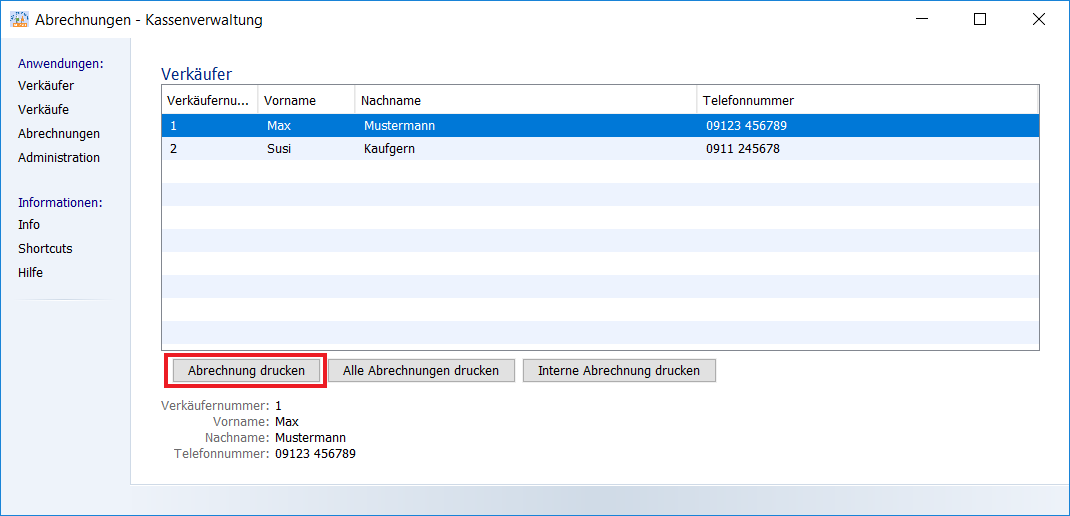
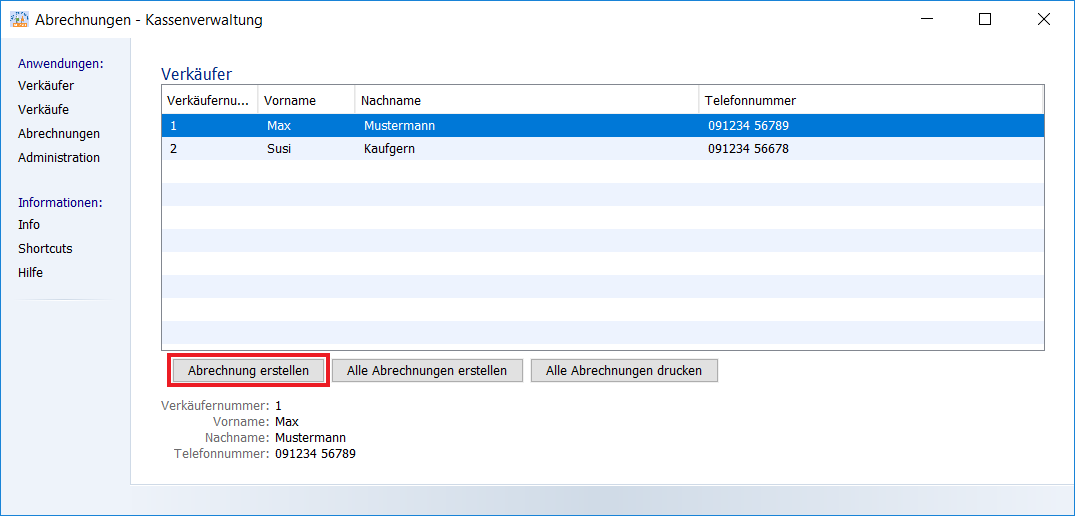
added references from HowTo to Benutzerhandbuch

diff --git a/Benutzerhandbuch.html b/Benutzerhandbuch.html
@@ -1981,86 +1981,86 @@ body .markdown-body
 <h3 id="erfassung-der-verkufer">1. Erfassung der Verk&auml;ufer<a class="headerlink" href="#erfassung-der-verkufer" title="Permanent link"></a></h3>
 <p>Um in die Verkäufer Erfassung zu gelangen benötigt es einen Klick auf „Verkäufer“. Wird die Anwendung gestartet ist dieses Fenster bereits geöffnet.
 Alternativ kann man auch Strg + 1 (Steuerungstaste gedrückt halten und dann die 1 drücken) um in die Verkäufer Ansicht zu gelangen.</p>
-<p><img alt="Übersicht aller Verkäufer" src="///C://Users/Kenan.Horoz/Desktop/kindergarten/pics/Bild1.png" title="Übersicht aller Verkäufer" /></p>
+<p><img alt="Übersicht aller Verkäufer" src="pics/Bild1.png" title="Übersicht aller Verkäufer" /></p>
 <h3 id="hinzufgen-eines-neuen-verkufers">1.1 Hinzuf&uuml;gen eines neuen Verk&auml;ufers<a class="headerlink" href="#hinzufgen-eines-neuen-verkufers" title="Permanent link"></a></h3>
 <p>Die Erfassung der Kundendaten erfolgt mit einem Klick auf den &ldquo;Neu&rdquo; Button in der Verkäuferansicht.
 Es öffnet sich ein neues Fenster.</p>
-<p><img alt="neuen Verkäufer anlegen" src="///C://Users/Kenan.Horoz/Desktop/kindergarten/pics/Bild2.png" title="neuen Verkäufer anlegen" /></p>
+<p><img alt="neuen Verkäufer anlegen" src="pics/Bild2.png" title="neuen Verkäufer anlegen" /></p>
 <h3 id="hinzufgen-einer-verkufernummer">1.2 Hinzuf&uuml;gen einer Verk&auml;ufernummer<a class="headerlink" href="#hinzufgen-einer-verkufernummer" title="Permanent link"></a></h3>
 <p>Der &ldquo;Hinzufügen&rdquo; Button ermöglicht es, dem Verkäufer eine neue Verkäufernummer hinzuzufügen.
 Alternativ kann man hier auch die Enter Taste drücken um die Nummer einzutragen.
 Hier zuerst im Feld „Verkäufernummer“ die jeweilige Nummer eintragen.</p>
-<p><img alt="neuen Verkäufer anlegen Ansicht" src="///C://Users/Kenan.Horoz/Desktop/kindergarten/pics/Bild3.png" title="neuen Verkäufer anlegen Ansicht" /></p>
+<p><img alt="neuen Verkäufer anlegen Ansicht" src="pics/Bild3.png" title="neuen Verkäufer anlegen Ansicht" /></p>
 <p>Mit Klick auf „OK“ wird der Verkäufer angelegt und das Fenster schließt sich.
 Alternativ kann man hierzu wenn man sich in keinem Eingabefeld befindet und keinen Eintrag in der Liste markiert hat
 die Enter Taste drücken um das Fenster zu schließen.</p>
 <h3 id="entfernen-einer-verkufernummer">1.3 Entfernen einer Verk&auml;ufernummer<a class="headerlink" href="#entfernen-einer-verkufernummer" title="Permanent link"></a></h3>
 <p>Um von einem Verkäufer eine Verkäufernummer zu entfernen, benötigt es einen Klick auf die jeweilige Nummer.
 Der &ldquo;Entfernen&rdquo; Button wird aktiviert und mit Klick auf den Button wird die Nummer entfernt.</p>
-<p><img alt="Verkäufernummer entfernen" src="///C://Users/Kenan.Horoz/Desktop/kindergarten/pics/Bild4.png" title="Verkäufernummer entfernen" /></p>
+<p><img alt="Verkäufernummer entfernen" src="pics/Bild4.png" title="Verkäufernummer entfernen" /></p>
 <h3 id="import-und-export-von-kundendaten">1.4 Import und Export von Kundendaten<a class="headerlink" href="#import-und-export-von-kundendaten" title="Permanent link"></a></h3>
 <p>Um bereits erfasste Verkäufer von einem PC zu einem anderen PC zu übertragen kann man die Export-Funktion nutzen.
 Die Verkäufer werden in einer Datei zusammengefasst und diese Datei am ausgewählten Ort gespeichert.</p>
-<p><img alt="Verkäufer exportieren" src="///C://Users/Kenan.Horoz/Desktop/kindergarten/pics/Bild8.png" title="Verkäufer exportieren" /></p>
+<p><img alt="Verkäufer exportieren" src="pics/Bild8.png" title="Verkäufer exportieren" /></p>
 <p>Es öffnet sich folgendes Fenster.</p>
-<p><img alt="Verkäufer exportieren Oberfläche" src="///C://Users/Kenan.Horoz/Desktop/kindergarten/pics/Bild9.png" title="Verkäufer exportieren Oberfläche" /></p>
+<p><img alt="Verkäufer exportieren Oberfläche" src="pics/Bild9.png" title="Verkäufer exportieren Oberfläche" /></p>
 <p>Nun gibt man seinen Dateinamen ein, wählt den Speicherort aus und bestätigt alles mit Klick auf „Speichern“.
 Am Speicherort befindet sich nun eine &ldquo;Dateiname.JSON&rdquo; Datei mit allen vorhandenen Verkäufern.
 Diese Datei kann nun auf einen USB Stick gespeichert werden und an andere PC&rsquo;s gesteckt werden.</p>
 <p>Um die vorher exportierten Verkäufer auf einen anderen PC zu übertragen kann hier die Import-Funktion genutzt werden.</p>
-<p><img alt="Verkäufer importieren" src="///C://Users/Kenan.Horoz/Desktop/kindergarten/pics/Bild5.png" title="Verkäufer importieren" /></p>
+<p><img alt="Verkäufer importieren" src="pics/Bild5.png" title="Verkäufer importieren" /></p>
 <p>Es öffnet sich folgendes Fenster</p>
-<p><img alt="Verkäufer importieren Oberfläche" src="///C://Users/Kenan.Horoz/Desktop/kindergarten/pics/Bild6.png" title="Verkäufer importieren Oberfläche" /></p>
+<p><img alt="Verkäufer importieren Oberfläche" src="pics/Bild6.png" title="Verkäufer importieren Oberfläche" /></p>
 <p>Hier sucht man auf dem USB Stick nach der vorher gespeicherten &ldquo;Dateiname.JSON&rdquo; Datei.
 Klicken Sie auf die Datei und anschließend auf Öffnen </p>
-<p><img alt="Verkäufer importieren Oberfläche" src="///C://Users/Kenan.Horoz/Desktop/kindergarten/pics/Bild7.png" title="Verkäufer importieren Oberfläche" /></p>
+<p><img alt="Verkäufer importieren Oberfläche" src="pics/Bild7.png" title="Verkäufer importieren Oberfläche" /></p>
 <p>Die Daten werden importiert und die Verkäuferliste wird aufgefüllt.
 Der Benutzer erhält eine Benachrichtigung wenn alles geklappt hat.
 Falls etwas schief läuft wird auch hier eine Benachrichtigung ausgegeben, beispielsweise wenn ein Eintrag doppelt vorhanden ist.
 Wie hiermit umzugehen ist wird genauer in der Howto Anleitung erklärt</p>
 <h3 id="bearbeiten-eines-verkufers">1.5 Bearbeiten eines Verk&auml;ufers<a class="headerlink" href="#bearbeiten-eines-verkufers" title="Permanent link"></a></h3>
 <p>Um einen bereits vorhanden Verkäufer zu bearbeiten, klickt man diesen an und klickt auf den Button &ldquo;Bearbeiten&rdquo;.</p>
-<p><img alt="Bearbeiten eines Verkäufers" src="///C://Users/Kenan.Horoz/Desktop/kindergarten/pics/Bild10.png" title="Bearbeiten eines Verkäufers" /></p>
+<p><img alt="Bearbeiten eines Verkäufers" src="pics/Bild10.png" title="Bearbeiten eines Verkäufers" /></p>
 <p>Es öffnet sich das Fenster &ldquo;Neu&rdquo; der Verkäufer Ansicht.</p>
-<p><img alt="Verkäufer bearbeiten Oberfläche" src="///C://Users/Kenan.Horoz/Desktop/kindergarten/pics/Bild11.png" title="Verkäufer bearbeiten Oberfläche" /></p>
+<p><img alt="Verkäufer bearbeiten Oberfläche" src="pics/Bild11.png" title="Verkäufer bearbeiten Oberfläche" /></p>
 <p>In diesem Fenster besteht nun die Möglichkeit, den Namen, die Telefonnummer und die Verkäufernummern abzuändern oder zu ergänzen.</p>
 <h3 id="erfassung-der-artikel">2. Erfassung der Artikel<a class="headerlink" href="#erfassung-der-artikel" title="Permanent link"></a></h3>
 <p>Um in die Artikelerfassung zu gelangen, benötigt es einen Klick auf &ldquo;Verkäufe&rdquo;.
 Alternativ kann man auch Strg + 2 (Steuerungstaste gedrückt halten und dann die 2 drücken) um in die Verkäufe Ansicht zu gelangen.</p>
-<p><img alt="Artikel erfassen Ansicht" src="///C://Users/Kenan.Horoz/Desktop/kindergarten/pics/Bild12.png" title="Artikel erfassen Ansicht" /></p>
+<p><img alt="Artikel erfassen Ansicht" src="pics/Bild12.png" title="Artikel erfassen Ansicht" /></p>
 <h3 id="hinzufgen-eines-artikels">2.1 Hinzuf&uuml;gen eines Artikels<a class="headerlink" href="#hinzufgen-eines-artikels" title="Permanent link"></a></h3>
 <p>Mit Klick auf „Neu“ öffnet sich eine neues Fenster. </p>
-<p><img alt="Artikel hinzufügen" src="///C://Users/Kenan.Horoz/Desktop/kindergarten/pics/Bild13.png" title="Artikel hinzufügen" /></p>
+<p><img alt="Artikel hinzufügen" src="pics/Bild13.png" title="Artikel hinzufügen" /></p>
 <p>Hier trägt man nun die Daten des jeweiligen Verkaufes ein.
 Mit der Tabulator Taste (Die Taste links von Q mit den 2 Pfeilen) ist es hier möglich schneller in das nächste Feld zu wechseln.
 Wurden alle Felder mit den jeweiligen Daten befüllt, fügt man mit Klick auf „Hinzufügen“ oder
 mit dem Betätigen der Enter Taste den verkauften Artikel hinzu.
 Danach können weiterhin beliebig viele Artikel erfasst werden.</p>
-<p><img alt="Artikel hinzufügen Oberfläche" src="///C://Users/Kenan.Horoz/Desktop/kindergarten/pics/Bild14.png" title="Artikel hinzufügen Oberfläche" /></p>
+<p><img alt="Artikel hinzufügen Oberfläche" src="pics/Bild14.png" title="Artikel hinzufügen Oberfläche" /></p>
 <p>Um den Verkauf abzuschließen benötigt es nur einen Klick auf „Verkauf abschließen“.
 Alternativ kann man hier die Enter Taste drücken wenn man sich in keinem Eingabefeld befindet um den Verkauf abzuschließen</p>
 <p><span style="color:red"> <strong>!Wichtig! klicken Sie erst auf Verkauf abschließen, wenn der Kunde gezahlt hat.
 Erst nachdem Sie auf Verkauf abschließen klicken werden Ihre Einträge gespeichert. Wenn Sie zwischendrin auf abbrechen klicken
 sind Ihre Einträge verworfen!</strong></span></p>
-<p><img alt="Verkauf abschließen" src="///C://Users/Kenan.Horoz/Desktop/kindergarten/pics/Bild15.png" title="Verkauf abschließen" /></p>
+<p><img alt="Verkauf abschließen" src="pics/Bild15.png" title="Verkauf abschließen" /></p>
 <p>Ein Artikel kann entweder bei der Erfassung, oder im Nachhinein entfernt werden. Hierzu den jeweiligen Artikel anklicken und auf den &ldquo;Entfernen&rdquo; Button Klicken.</p>
-<p><img alt="Artikel löschen" src="///C://Users/Kenan.Horoz/Desktop/kindergarten/pics/Bild16.png" title="Artikel löschen" /></p>
+<p><img alt="Artikel löschen" src="pics/Bild16.png" title="Artikel löschen" /></p>
 <p>Bevor der Artikel entfernt wird, fragt das Programm den Benutzer ob er diesen Artikel wirklich löschen möchte. Hier mit „Ja“ (der Artikel wird gelöscht) oder „Nein“ (der Artikel bleibt vorhanden) bestätigen.</p>
 <h3 id="import-und-export-von-artikeln">2.2 Import und Export von Artikeln<a class="headerlink" href="#import-und-export-von-artikeln" title="Permanent link"></a></h3>
 <p>Ähnlich wie beim Import und Export von Verkäufern kann man auch Artikel importieren und exportieren</p>
 <p>Um bereits erfasste Verkäufe von einem PC zu einem anderen PC zu übertragen kann man die Export-Funktion nutzen.
 Die Verkäufe werden in einer Datei zusammengefasst und diese Datei am ausgewählten Ort gespeichert.</p>
 <p>Mit einem Klick auf „Verkäufe Exportieren“ öffnet sich ein neues Fenster. </p>
-<p><img alt="Verkäufe exportieren" src="///C://Users/Kenan.Horoz/Desktop/kindergarten/pics/Bild19.png" title="Verkäufe exportieren" /></p>
+<p><img alt="Verkäufe exportieren" src="pics/Bild19.png" title="Verkäufe exportieren" /></p>
 <p>In diesem Fenster wählt man wieder den Speicherort aus, gibt der Datei einen Namen und schließt den Vorgang mit einem Klick auf &ldquo;Speichern&rdquo; ab.</p>
-<p><img alt="Verkäufe exportieren Oberfläche" src="///C://Users/Kenan.Horoz/Desktop/kindergarten/pics/Bild20.png" title="Verkäufe exportieren Oberfläche" /></p>
+<p><img alt="Verkäufe exportieren Oberfläche" src="pics/Bild20.png" title="Verkäufe exportieren Oberfläche" /></p>
 <p>Nun gibt man seinen Dateinamen ein, wählt den Speicherort aus und bestätigt alles mit Klick auf &ldquo;Speichern&rdquo;.
 Am Speicherort befindet sich nun eine &ldquo;Dateiname.JSON&rdquo; Datei mit allen vorhandenen Artikeln.
 Diese Datei kann nun auf einen USB Stick gespeichert werden und an andere PC&rsquo;s gesteckt werden.</p>
 <p>Um die vorher exportierten Verkäufe auf einen anderen PC zu übertragen kann hier die Import-Funktion genutzt werden.</p>
-<p><img alt="Verkäufer importieren" src="///C://Users/Kenan.Horoz/Desktop/kindergarten/pics/Bild17.png" title="Verkäufer importieren" /></p>
+<p><img alt="Verkäufer importieren" src="pics/Bild17.png" title="Verkäufer importieren" /></p>
 <p>Es öffnet sich ein neues Fenster um die Datei auszuwählen.</p>
-<p><img alt="Verkäufe importieren Oberfläche" src="///C://Users/Kenan.Horoz/Desktop/kindergarten/pics/Bild18.png" title="Verkäufe importieren Oberfläche" /></p>
+<p><img alt="Verkäufe importieren Oberfläche" src="pics/Bild18.png" title="Verkäufe importieren Oberfläche" /></p>
 <p>Nachdem an die passende Stelle navigiert wurde und die zu importierende Datei ausgewählt ist beendet man den Vorgang mit einem Klick auf „Öffnen“.
 Die Daten werden importiert und die Artikelliste wird aufgefüllt.
 Der Benutzer erhält eine Benachrichtigung wenn alles geklappt hat.
@@ -2073,28 +2073,28 @@ Wenn nach &ldquo;Chronologisch&rdquo; sortiert wird, werden die Artikel in der R
 mit dem zuerst verkauften Artikel beginnend.</p>
 <p>Bei &ldquo;Nach Verkäufer und Verkäufernummer&rdquo; sortieren, werden die Verkäufer erst alphabetisch
 und dann nach der Verkäufernummer aufsteigend sortiert.</p>
-<p><img alt="Artikel sortieren" src="///C://Users/Kenan.Horoz/Desktop/kindergarten/pics/Bild21.png" title="Artikel sortieren" /></p>
+<p><img alt="Artikel sortieren" src="pics/Bild21.png" title="Artikel sortieren" /></p>
 <p>Sollte man nur die Informationen über einen einzelnen Verkäufer brauchen,
 falls zum Beispiel ein Verkäufer wissen will, welche und wie viele Artikel er bisher verkauft hat
 kann man bei dem Dropdown-Menü &ldquo;Filter nach Verkäufernummer&rdquo; den gewünschten Verkäufer oder seine Verkäufernummer heraussuchen.
 Dabei wird in der Liste nur noch dieser Verkäufer mit seinen bisher verkauften Artikeln gelistet.
 Um das wieder rückgängig zu machen, muss in dem Dropdown-Menü nur der oberste Punkt &ldquo;Alle&rdquo; ausgewählt werden.</p>
-<p><img alt="Artikel filtern" src="///C://Users/Kenan.Horoz/Desktop/kindergarten/pics/Bild22.png" title="Artikel filtern" /></p>
+<p><img alt="Artikel filtern" src="pics/Bild22.png" title="Artikel filtern" /></p>
 <h3 id="abrechnung">3. Abrechnung<a class="headerlink" href="#abrechnung" title="Permanent link"></a></h3>
 <p>Um in die Abrechnung zu gelangen, benötigt es einen Klick auf „Abrechnung“.
 Alternativ kann man auch Strg + 3 (Steuerungstaste gedrückt halten und dann die 3 drücken) um in die &ldquo;Abrechnungen&rdquo; Ansicht zu gelangen.</p>
-<p><img alt="Abrechnungen Oberfläche" src="///C://Users/Kenan.Horoz/Desktop/kindergarten/pics/Bild23.png" title="Abrechnungen Oberfläche" /></p>
+<p><img alt="Abrechnungen Oberfläche" src="pics/Bild23.png" title="Abrechnungen Oberfläche" /></p>
 <p>Hier werden in einer Tabelle alle gelisteten Verkäufer dargestellt.</p>
 <h3 id="abrechnungen-drucken">3.1 Abrechnung erstellen<a class="headerlink" href="#abrechnungen-drucken" title="Permanent link"></a></h3>
-<p>Um eine einzelne Abrechnung zu drucken, wird der jeweilige Verkäufer selektiert und der Button &ldquo;Abrechnung drucken&rdquo; geklickt.</p>
-<p><img alt="Abrechnung drucken" src="///C://Users/Kenan.Horoz/Desktop/kindergarten/pics/Bild24.png" title="Abrechnung drucken" /></p>
+<p>Um eine einzelne Abrechnung zu drucken, wird der jeweilige Verkäufer selektiert und der Button &ldquo;Abrechnung erstellen&rdquo; geklickt.</p>
+<p><img alt="Abrechnung drucken" src="pics/Bild24.png" title="Abrechnung drucken" /></p>
 <p>Nach dem Klick öffnet sich ein Dialog. Hier ist der Dateipfad beschrieben in dem das Dokument gespeichert wurde.
 Auf dem Desktop wird ein Ordner namens &ldquo;Basar Abrechnungen&rdquo; erstellt. Hier befindet sich dann für jeden Verkäufer
 jeweils eine PDF und eine Excel Datei mit einer Übersicht seiner verkauften Artikel.</p>
 <h3 id="alle-abrechnungen-drucken">3.2 Alle Abrechnungen erstellen<a class="headerlink" href="#alle-abrechnungen-drucken" title="Permanent link"></a></h3>
 <p>Um alle Abrechnungen zu drucken, benötigt es einen Klick auf „Alle Abrechnungen drucken“.
 Nach dem Klick öffnet sich ein Fenster, hier kann der Drucker ausgewählt werden.</p>
-<p><img alt="Alle Abrechnungen drucken" src="///C://Users/Kenan.Horoz/Desktop/kindergarten/pics/Bild25.png" title="Alle Abrechnungen drucken" /></p>
+<p><img alt="Alle Abrechnungen drucken" src="pics/Bild25.png" title="Alle Abrechnungen drucken" /></p>
 <p>Außerdem werden wie oben bei &ldquo;Abrechnung drucken&rdquo; beschrieben, für jeden Verkäufer automatisch
 eine PDF und eine Excel Datei mit einer Übersicht seiner verkauften Artikel angelegt und im Ordner gespeichert.</p>
 <h3 id="interne-abrechnung-drucken">3.3 Alle Abrechnungen drucken<a class="headerlink" href="#interne-abrechnung-drucken" title="Permanent link"></a></h3>
@@ -2107,7 +2107,7 @@ Hier sind Statistiken zu finden wie:</p>
 <li>Anteil des Kindergartens</li>
 <li>Einnahmen und Auszahlungsbeträge an die jeweiligen Verkäufer</li>
 </ul>
-<p><img alt="Interne Abrechnung drucken" src="///C://Users/Kenan.Horoz/Desktop/kindergarten/pics/Bild26.png" title="Interne Abrechnung drucken" /></p>
+<p><img alt="Interne Abrechnung drucken" src="pics/Bild26.png" title="Interne Abrechnung drucken" /></p>
 <h3 id="daten-zurcksetzen">4. Daten zur&uuml;cksetzen<a class="headerlink" href="#daten-zurcksetzen" title="Permanent link"></a></h3>
 <p>Als letzten Schritt soll die Datenbank zurückgesetzt werden um beim nächsten Mal wieder auf einem frischen Stand anfangen zu können.
 Hierzu klicken Sie auf &ldquo;Administration&rdquo;. Alternativ kann man auch Strg + 4 (Steuerungstaste gedrückt halten und dann die 4 drücken)
@@ -2115,16 +2115,16 @@ um in die &ldquo;Administration&rdquo; Ansicht zu gelangen.
 In diesem Fenster befindet sich ein Button &ldquo;Zurücksetzen&rdquo;.
 Klicken Sie auf den Button und die Anwendung fragt Sie ob Sie sicher sind.
 &ldquo;Ja&rdquo; löscht alle Einträge und &ldquo;Nein&rdquo; bricht den Vorgang ab.</p>
-<p><img alt="Administration" src="///C://Users/Kenan.Horoz/Desktop/kindergarten/pics/reset.png" title="Datenbank zurücksetzen" /></p>
+<p><img alt="Administration" src="pics/reset.png" title="Datenbank zurücksetzen" /></p>
 <h3 id="info">5. Info<a class="headerlink" href="#info" title="Permanent link"></a></h3>
 <p>Ein Klick auf Info öffnet das Informationsfenster.</p>
-<p><img alt="Info Fenster" src="///C://Users/Kenan.Horoz/Desktop/kindergarten/pics/Bild27.png" title="Info Fenster" /></p>
+<p><img alt="Info Fenster" src="pics/Bild27.png" title="Info Fenster" /></p>
 <p>Im Infofeld befinden sich die Kontaktdaten des Ansprechpartners.</p>
-<p><img alt="Kontakt" src="///C://Users/Kenan.Horoz/Desktop/kindergarten/pics/Bild28.png" title="Kontakt" /></p>
+<p><img alt="Kontakt" src="pics/Bild28.png" title="Kontakt" /></p>
 <h3 id="hilfe">6. Hilfe<a class="headerlink" href="#hilfe" title="Permanent link"></a></h3>
 <p>Ein Klick auf Hilfe öffnet das Hilfe Fenster. Hier können Sie aus der Anwendung heraus auf die 3 von uns bereit
 gestellten Hilfsanleitungen zugreifen.</p>
-<p><img alt="Hilfe" src="///C://Users/Kenan.Horoz/Desktop/kindergarten/pics/BildHilfe.png" title="Hilfe" /></p>
+<p><img alt="Hilfe" src="pics/BildHilfe.png" title="Hilfe" /></p>
 <h3 id="shortcuts">7. Shortcuts<a class="headerlink" href="#shortcuts" title="Permanent link"></a></h3>
 <p>Um die Bedienung zu vereinfachen, befinden sich in der Anwendung folgende Shortcuts:</p>
 <ul>

diff --git a/HowTo.html b/HowTo.html
@@ -1057,30 +1057,35 @@ body .markdown-body
 .codehilite .gc{color:#999;background-color:#EAF2F5}
 </style><title>HowTo</title></head><body><article class="markdown-body"><h2 id="howto">HowTo<a class="headerlink" href="#howto" title="Permanent link"></a></h2>
 <p>Hier wird der Arbeitsablauf mit dem Programm beschrieben.
-Bei Unklarheiten zu der Funktionalität des Programmes können Sie einen Blick in das Benutzerhandbuch werfen. Dazu öffnen Sie den Ordner 
+Bei Unklarheiten zu der Funktionalität des Programmes können Sie einen Blick in das Benutzerhandbuch werfen. Dazu öffnen Sie den Ordner
 kindergarten-2.1.0 -&gt; hilfe -&gt; und öffnen Benutzerhandbuch.html
 oder klicken Sie auf <a href="///C://Users/Kenan.Horoz/Desktop/kindergarten/Benutzerhandbuch.html">Benutzerhandbuch</a>.</p>
 <h3 id="schritt-1"><strong>Schritt 1</strong><a class="headerlink" href="#schritt-1" title="Permanent link"></a></h3>
-<p>Bevor der Basar beginnen kann, müssen die <strong>vollständigen</strong> Verkäuferdaten auf einem Rechner erfasst werden. Dies geschieht in der Verkäufer-Erfassung. 
+<p>Bevor der Basar beginnen kann, müssen die <strong>vollständigen</strong> Verkäuferdaten auf einem Rechner erfasst werden. Dies geschieht in der Verkäufer-Erfassung.
 Siehe <a href="///C://Users/Kenan.Horoz/Desktop/kindergarten/Benutzerhandbuch.html#erfassung-der-verkufer">Kapitel 1</a></p>
 <h3 id="schritt-2"><strong>Schritt 2</strong><a class="headerlink" href="#schritt-2" title="Permanent link"></a></h3>
 <p>Ist die Erfassung auf diesem Rechner abgeschlossen, exportieren Sie die vollständigen Verkäufer-Daten und <strong>kopieren</strong> diese auf einen USB-Stick.
 <span style="color:red"> <strong>WICHTIG! Die Verkäuferdaten dürfen ab diesem Zeitpunkt unter keinen Umständen mehr geändert werden sodass an allen PC&rsquo;s mit einheitlichen Daten gearbeitet werden kann!</strong></span></p>
+<p>Siehe <a href="///C://Users/Kenan.Horoz/Desktop/kindergarten/Benutzerhandbuch.html#import-und-export-von-kundendaten">Kapitel 1.4</a></p>
 <h3 id="schritt-3"><strong>Schritt 3</strong><a class="headerlink" href="#schritt-3" title="Permanent link"></a></h3>
 <p>Gehen Sie daraufhin mit dem USB-Stick auf welchem Sie die Verkäuferdaten exportiert haben zu <span style="color:red"><strong> ALLEN anderen Rechnern </strong></span>  auf denen die Anwendung benutzt werden soll und importieren jeweils die Verkäuferdaten.</p>
+<p>Siehe <a href="///C://Users/Kenan.Horoz/Desktop/kindergarten/Benutzerhandbuch.html#import-und-export-von-kundendaten">Kapitel 1.4</a></p>
 <p>Jetzt kann der Basar beginnen und die verkauften Artikel können auf den Rechnern erfasst werden.</p>
 <h3 id="schritt-4"><strong>Schritt 4</strong><a class="headerlink" href="#schritt-4" title="Permanent link"></a></h3>
 <p>Nach dem Basar müssen die Artikeldaten von jedem Computer exportiert werden. Dies geschieht unter &ldquo;Artikel exportieren&rdquo;.
 <span style="color:red"> <strong>Die Artikeldaten dürfen ab diesem Zeitpunkt ebenfalls unter keinen Umständen mehr geändert werden!</strong></span>
 Nun geht man wieder mit einem USB-Stick zu <em>jedem</em> einzelnen Rechner und exportiert auf diesen die jeweiligen Artikeldaten. Damit habt Ihr auf dem USB-Stick einen vollständigen Datensatz.</p>
+<p>Siehe <a href="///C://Users/Kenan.Horoz/Desktop/kindergarten/Benutzerhandbuch.html#import-und-export-von-artikeln">Kapitel 2.2</a></p>
 <h3 id="schritt-5"><strong>Schritt 5</strong><a class="headerlink" href="#schritt-5" title="Permanent link"></a></h3>
-<p>Hat man die Daten von jedem Computer gesammelt sucht Ihr Euch am besten einen der Rechner aus auf dem Ihr die Abrechnungen erstellen werdet. Auf diesem Rechner werden alle Artikeldaten zusammengeführt. Dies geschieht unter &ldquo;Artikel importieren&rdquo;. 
+<p>Hat man die Daten von jedem Computer gesammelt sucht Ihr Euch am besten einen der Rechner aus auf dem Ihr die Abrechnungen erstellen werdet. Auf diesem Rechner werden alle Artikeldaten zusammengeführt. Dies geschieht unter &ldquo;Artikel importieren&rdquo;.
 <span style="color:red"> <strong>Importieren Sie hierbei NUR die Dateien der anderen Rechner. Andernfalls können Fehler wegen Mehrfacheinträgen entstehen!</strong></span></p>
 <p>Sollten Sie sich beim Eintragen eines Artikels vertippt haben und dadurch einen Artikel doppelt angelegt haben oder versehentlich beim Importieren eine Datei mehrfach ausgewählt haben erscheint beim Importieren eine Fehlermeldung die Ihnen mitteilt dass Einträge mehrfach vorhanden sind.</p>
 <p>In diesem Fall wird eine Doppelte Artikel.txt Datei angelegt die genauer anzeigt welche Einträge Konflikte auslösen, sprich welche Einträge durch einen Import doppelt vorhanden sind. Öffnen Sie hierzu den Ordner kindergarten-2.1.0 -&gt; und darin den Ordner bin -&gt; hier liegt Doppelte Artikel.txt. Darin finden Sie eine Auflistung von bereits vorhandenen Artikeln verglichen mit den Artikeln die nicht importiert wurden mit Artikelnummer Verkäufernummer und Preis. Diese werden nicht importiert sondern nur in der Datei zum Überprüfen aufgelistet. </p>
+<p>Siehe <a href="///C://Users/Kenan.Horoz/Desktop/kindergarten/Benutzerhandbuch.html#import-und-export-von-artikeln">Kapitel 2.2</a></p>
 <h3 id="schritt-6"><strong>Schritt 6</strong><a class="headerlink" href="#schritt-6" title="Permanent link"></a></h3>
-<p>Nachdem alle Dateien zusammen importiert wurden befindet sich auf diesem Rechner der vollständige Datensatz. Mit diesem können Sie zum Erstellen der Abrechnungen übergehen.</p>
+<p>Nachdem alle Dateien zusammen importiert wurden befindet sich auf diesem Rechner alle Verkaufsdaten. Mit diesem können Sie zum Erstellen der Abrechnungen übergehen.</p>
 <p>Zum Schluss werden vom vollständigen Datensatz Abrechnungen erstellt. Für jeden Verkäufer wird hierbei eine PDF und eine Excel Datei angelegt. Aus diesen können Sie entnehmen welcher Betrag an den jeweiligen Verkäufer auszuzahlen ist und welcher Betrag an den Kindergarten geht.</p>
+<p>Siehe <a href="///C://Users/Kenan.Horoz/Desktop/kindergarten/Benutzerhandbuch.html#abrechnung">Kapitel 3</a></p>
 <h3 id="schritt-7"><strong>Schritt 7</strong><a class="headerlink" href="#schritt-7" title="Permanent link"></a></h3>
 <p>Als letzten Schritt soll die Datenbank zurückgesetzt werden um beim nächsten Mal wieder auf einem frischen Stand anfangen zu können. Unter &ldquo;Administration&rdquo; können Sie alle Einträge löschen.
 Siehe <a href="///C://Users/Kenan.Horoz/Desktop/kindergarten/Benutzerhandbuch.html#daten-zurcksetzen">Kapitel 4</a></p></article></body></html>

diff --git a/HowTo.md b/HowTo.md
@@ -15,9 +15,13 @@ Siehe [Kapitel 1](Benutzerhandbuch.html#erfassung-der-verkufer)
 Ist die Erfassung auf diesem Rechner abgeschlossen, exportieren Sie die vollständigen Verkäufer-Daten und __kopieren__ diese auf einen USB-Stick.
 <span style="color:red"> **WICHTIG! Die Verkäuferdaten dürfen ab diesem Zeitpunkt unter keinen Umständen mehr geändert werden sodass an allen PC's mit einheitlichen Daten gearbeitet werden kann!**</span>
 
+Siehe [Kapitel 1.4](Benutzerhandbuch.html#import-und-export-von-kundendaten)
+
 ###**Schritt 3**
 
 Gehen Sie daraufhin mit dem USB-Stick auf welchem Sie die Verkäuferdaten exportiert haben zu <span style="color:red">** ALLEN anderen Rechnern **</span>  auf denen die Anwendung benutzt werden soll und importieren jeweils die Verkäuferdaten.
+
+Siehe [Kapitel 1.4](Benutzerhandbuch.html#import-und-export-von-kundendaten)
 
 Jetzt kann der Basar beginnen und die verkauften Artikel können auf den Rechnern erfasst werden.
 
@@ -25,7 +29,9 @@ Jetzt kann der Basar beginnen und die verkauften Artikel können auf den Rechner
 
 Nach dem Basar müssen die Artikeldaten von jedem Computer exportiert werden. Dies geschieht unter "Artikel exportieren".
 <span style="color:red"> **Die Artikeldaten dürfen ab diesem Zeitpunkt ebenfalls unter keinen Umständen mehr geändert werden!**</span>
-Nun geht man wieder mit einem USB-Stick zu _jedem_ einzelnen Rechner und exportiert auf diesen die jeweiligen Artikeldaten. Damit habt Ihr auf dem USB-Stick einen vollständigen Datensatz.
+Nun geht man wieder mit einem USB-Stick zu _jedem_ einzelnen Rechner und exportiert auf diesen die jeweiligen Artikeldaten. Damit habt Ihr auf dem USB-Stick alle Verkaufsdaten.
+
+Siehe [Kapitel 2.2](Benutzerhandbuch.html#import-und-export-von-artikeln)
 
 ###**Schritt 5**
 
@@ -36,11 +42,15 @@ Sollten Sie sich beim Eintragen eines Artikels vertippt haben und dadurch einen 
 
 In diesem Fall wird eine Doppelte Artikel.txt Datei angelegt die genauer anzeigt welche Einträge Konflikte auslösen, sprich welche Einträge durch einen Import doppelt vorhanden sind. Öffnen Sie hierzu den Ordner kindergarten-2.1.0 -> und darin den Ordner bin -> hier liegt Doppelte Artikel.txt. Darin finden Sie eine Auflistung von bereits vorhandenen Artikeln verglichen mit den Artikeln die nicht importiert wurden mit Artikelnummer Verkäufernummer und Preis. Diese werden nicht importiert sondern nur in der Datei zum Überprüfen aufgelistet. 
 
+Siehe [Kapitel 2.2](Benutzerhandbuch.html#import-und-export-von-artikeln)
+
 ###**Schritt 6**
 
-Nachdem alle Dateien zusammen importiert wurden befindet sich auf diesem Rechner der vollständige Datensatz. Mit diesem können Sie zum Erstellen der Abrechnungen übergehen.
+Nachdem alle Dateien zusammen importiert wurden befindet sich auf diesem Rechner alle Verkaufsdaten. Mit diesem können Sie zum Erstellen der Abrechnungen übergehen.
 
 Zum Schluss werden vom vollständigen Datensatz Abrechnungen erstellt. Für jeden Verkäufer wird hierbei eine PDF und eine Excel Datei angelegt. Aus diesen können Sie entnehmen welcher Betrag an den jeweiligen Verkäufer auszuzahlen ist und welcher Betrag an den Kindergarten geht.
+
+Siehe [Kapitel 3](Benutzerhandbuch.html#abrechnung)
 
 ###**Schritt 7**
 
